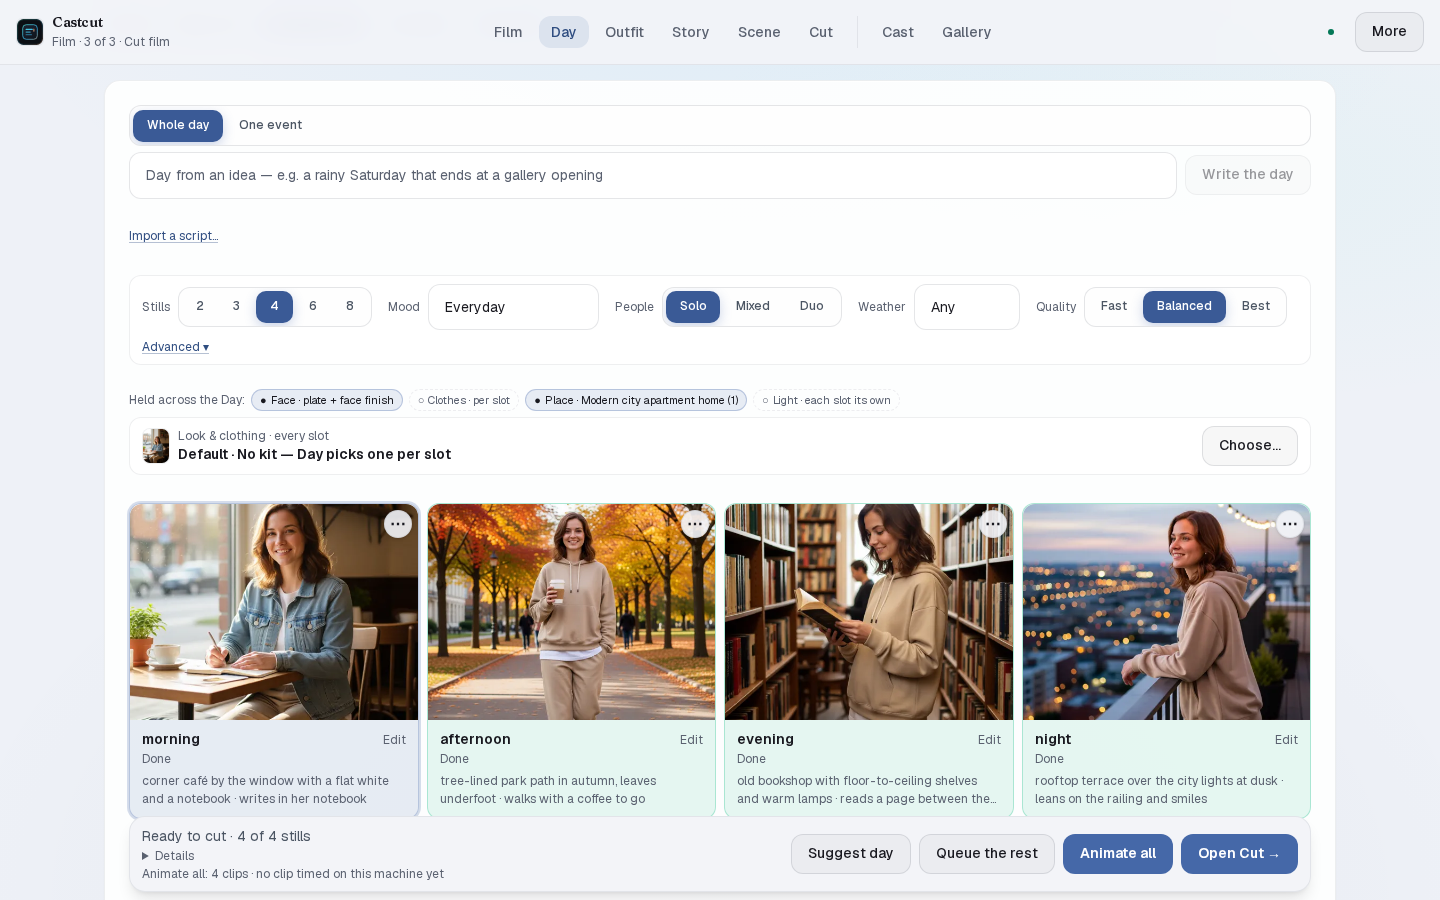
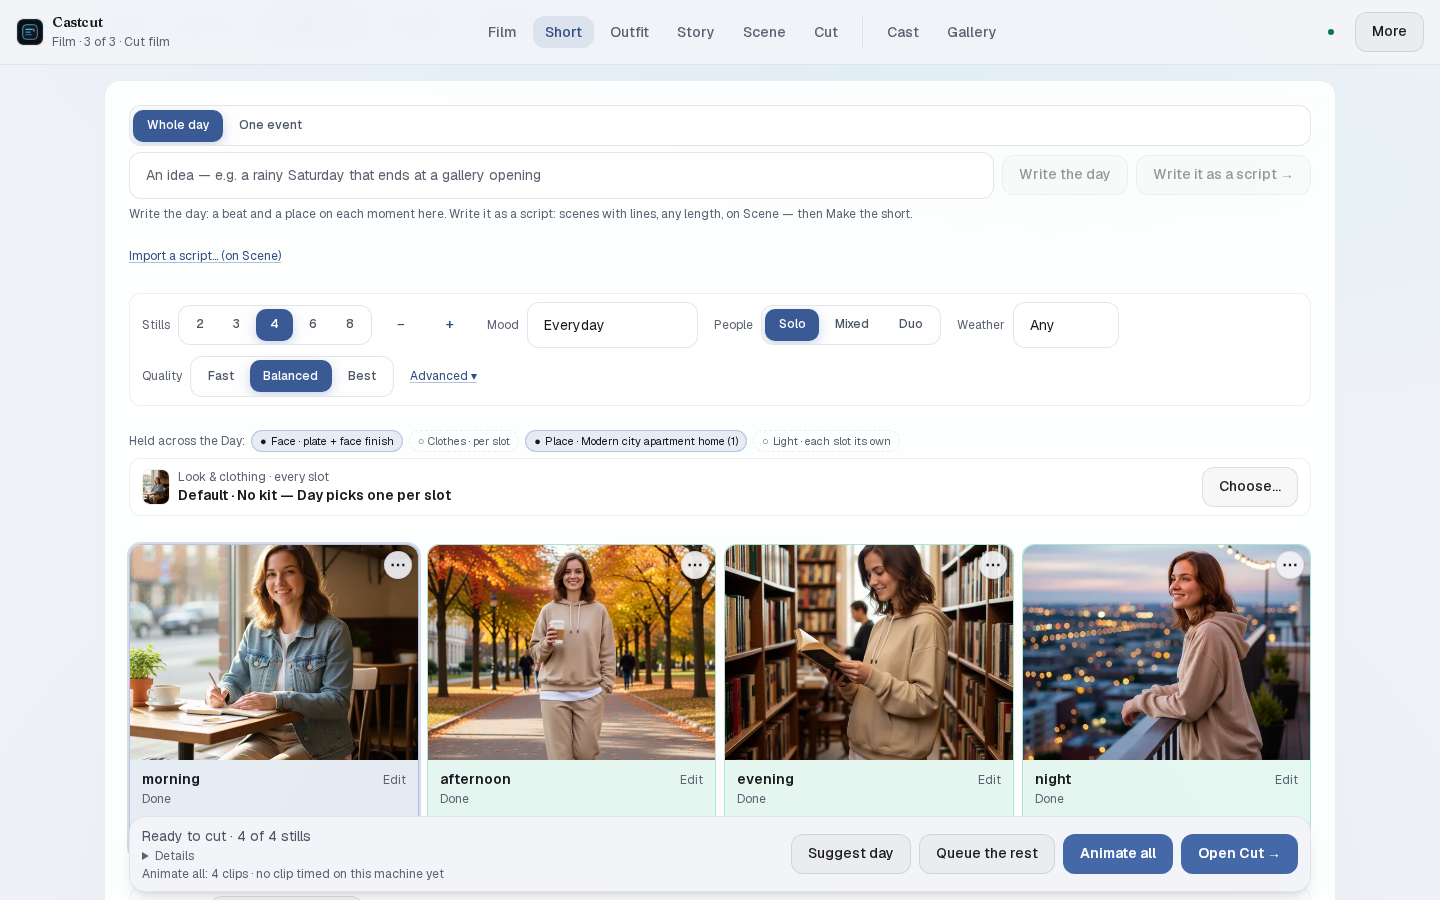
README screenshots retaken with Short; the Film page's last 'Day' labels say Short
npm run screenshots (guarded: isolated storage, writes refused) against a scratch install:
Short's idea row with Write the day / Write it as a script, the 2-12 length, the phone's 'Plan
a short'. The Film page still said 'plan their Day', 'Restart at Day', 'Starter Day', 'on Day'
and 'after your first Day cut' — now Short (test ids unchanged). film.png is retaken once a
build has the new labels.

diff --git a/src/components/play/PlayCampaignWizardSections.tsx b/src/components/play/PlayCampaignWizardSections.tsx
@@ -213,7 +213,7 @@ export default function PlayCampaignWizardSections(props: PlayCampaignWizardView
           data-testid="play-campaign-start-day"
           onClick={() => props.goToStep('day', props.activeLookPack)}
         >
-          Restart at Day
+          Restart at Short
         </Button>
         <Button
           size="sm"
@@ -221,7 +221,7 @@ export default function PlayCampaignWizardSections(props: PlayCampaignWizardView
           data-testid="play-campaign-jump-starter"
           onClick={() => runStarter(props.characterId || undefined)}
         >
-          Starter Day
+          Starter short
         </Button>
       </div>
     </div>
@@ -267,7 +267,7 @@ export default function PlayCampaignWizardSections(props: PlayCampaignWizardView
         description={
           props.campaignComplete
             ? 'Watch it, cut another Day, or carry on in Story.'
-            : 'Pick who it’s about, plan their Day, then cut the film.'
+            : 'Pick who it’s about, plan their Short, then cut the film.'
         }
       >
         {/* Shell already mounts habit on /m/* — avoid stacking on phone Film. */}

diff --git a/src/lib/play/step-machine.ts b/src/lib/play/step-machine.ts
@@ -66,7 +66,7 @@ export type PlayCampaignStep = {
   id: PlayCampaignStepId;
   label: string;
   description: string;
-  /** Story stays optional after first Day cut. */
+  /** Story stays optional after the first Short is cut. */
   optional?: boolean;
   next?: PlayCampaignStepId;
   href: (input: { characterId: string; pack?: LookPack | null }) => string;
@@ -112,7 +112,7 @@ export const PLAY_CAMPAIGN_STEPS: PlayCampaignStep[] = [
   {
     id: 'roleplay',
     label: 'Story',
-    description: 'Optional — story beats after your first Day cut.',
+    description: 'Optional — story beats after your first Short is cut.',
     optional: true,
     href: ({ characterId, pack }) =>
       pack ? lookPackRoleplayHref(pack) : `/story?character=${encodeURIComponent(characterId)}`,

diff --git a/e2e/play-campaign.spec.ts b/e2e/play-campaign.spec.ts
@@ -1814,7 +1814,7 @@ test('play campaign continue CTA appears when campaign state exists', async ({ p
   await gotoStable(page, '/play?character=e2e-resume-char');
   await dismissBlockingOverlays(page);
   await expect(page.getByTestId('play-campaign-continue')).toBeVisible({ timeout: 30_000 });
-  await expect(page.getByTestId('play-campaign-start-day')).toContainText(/Restart at Day/i);
+  await expect(page.getByTestId('play-campaign-start-day')).toContainText(/Restart at Short/i);
 });
 
 

diff --git a/src/components/play/PlayCampaignStepsSection.tsx b/src/components/play/PlayCampaignStepsSection.tsx
@@ -18,8 +18,7 @@ type PlayCampaignStepsSectionProps = Pick<
   thumbs?: Partial<Record<string, ReactNode>>;
 };
 
-const CUT_DESCRIPTION =
-  'Cut the Day’s stills and clips into one film — on Day, once the stills are in.';
+const CUT_DESCRIPTION = 'Cut the Short’s stills and clips into one film — once its stills are in.';
 
 export default function PlayCampaignStepsSection({
   activeStep,

diff --git a/src/lib/app/nav-catalog.ts b/src/lib/app/nav-catalog.ts
@@ -27,7 +27,7 @@ const ALL_APP_NAV_GROUPS: AppNavGroup[] = [
       {
         href: '/play',
         label: 'Film',
-        description: 'Pick who it’s about, plan their Day, cut the film',
+        description: 'Pick who it’s about, plan their Short, cut the film',
       },
       {
         href: '/characters',
